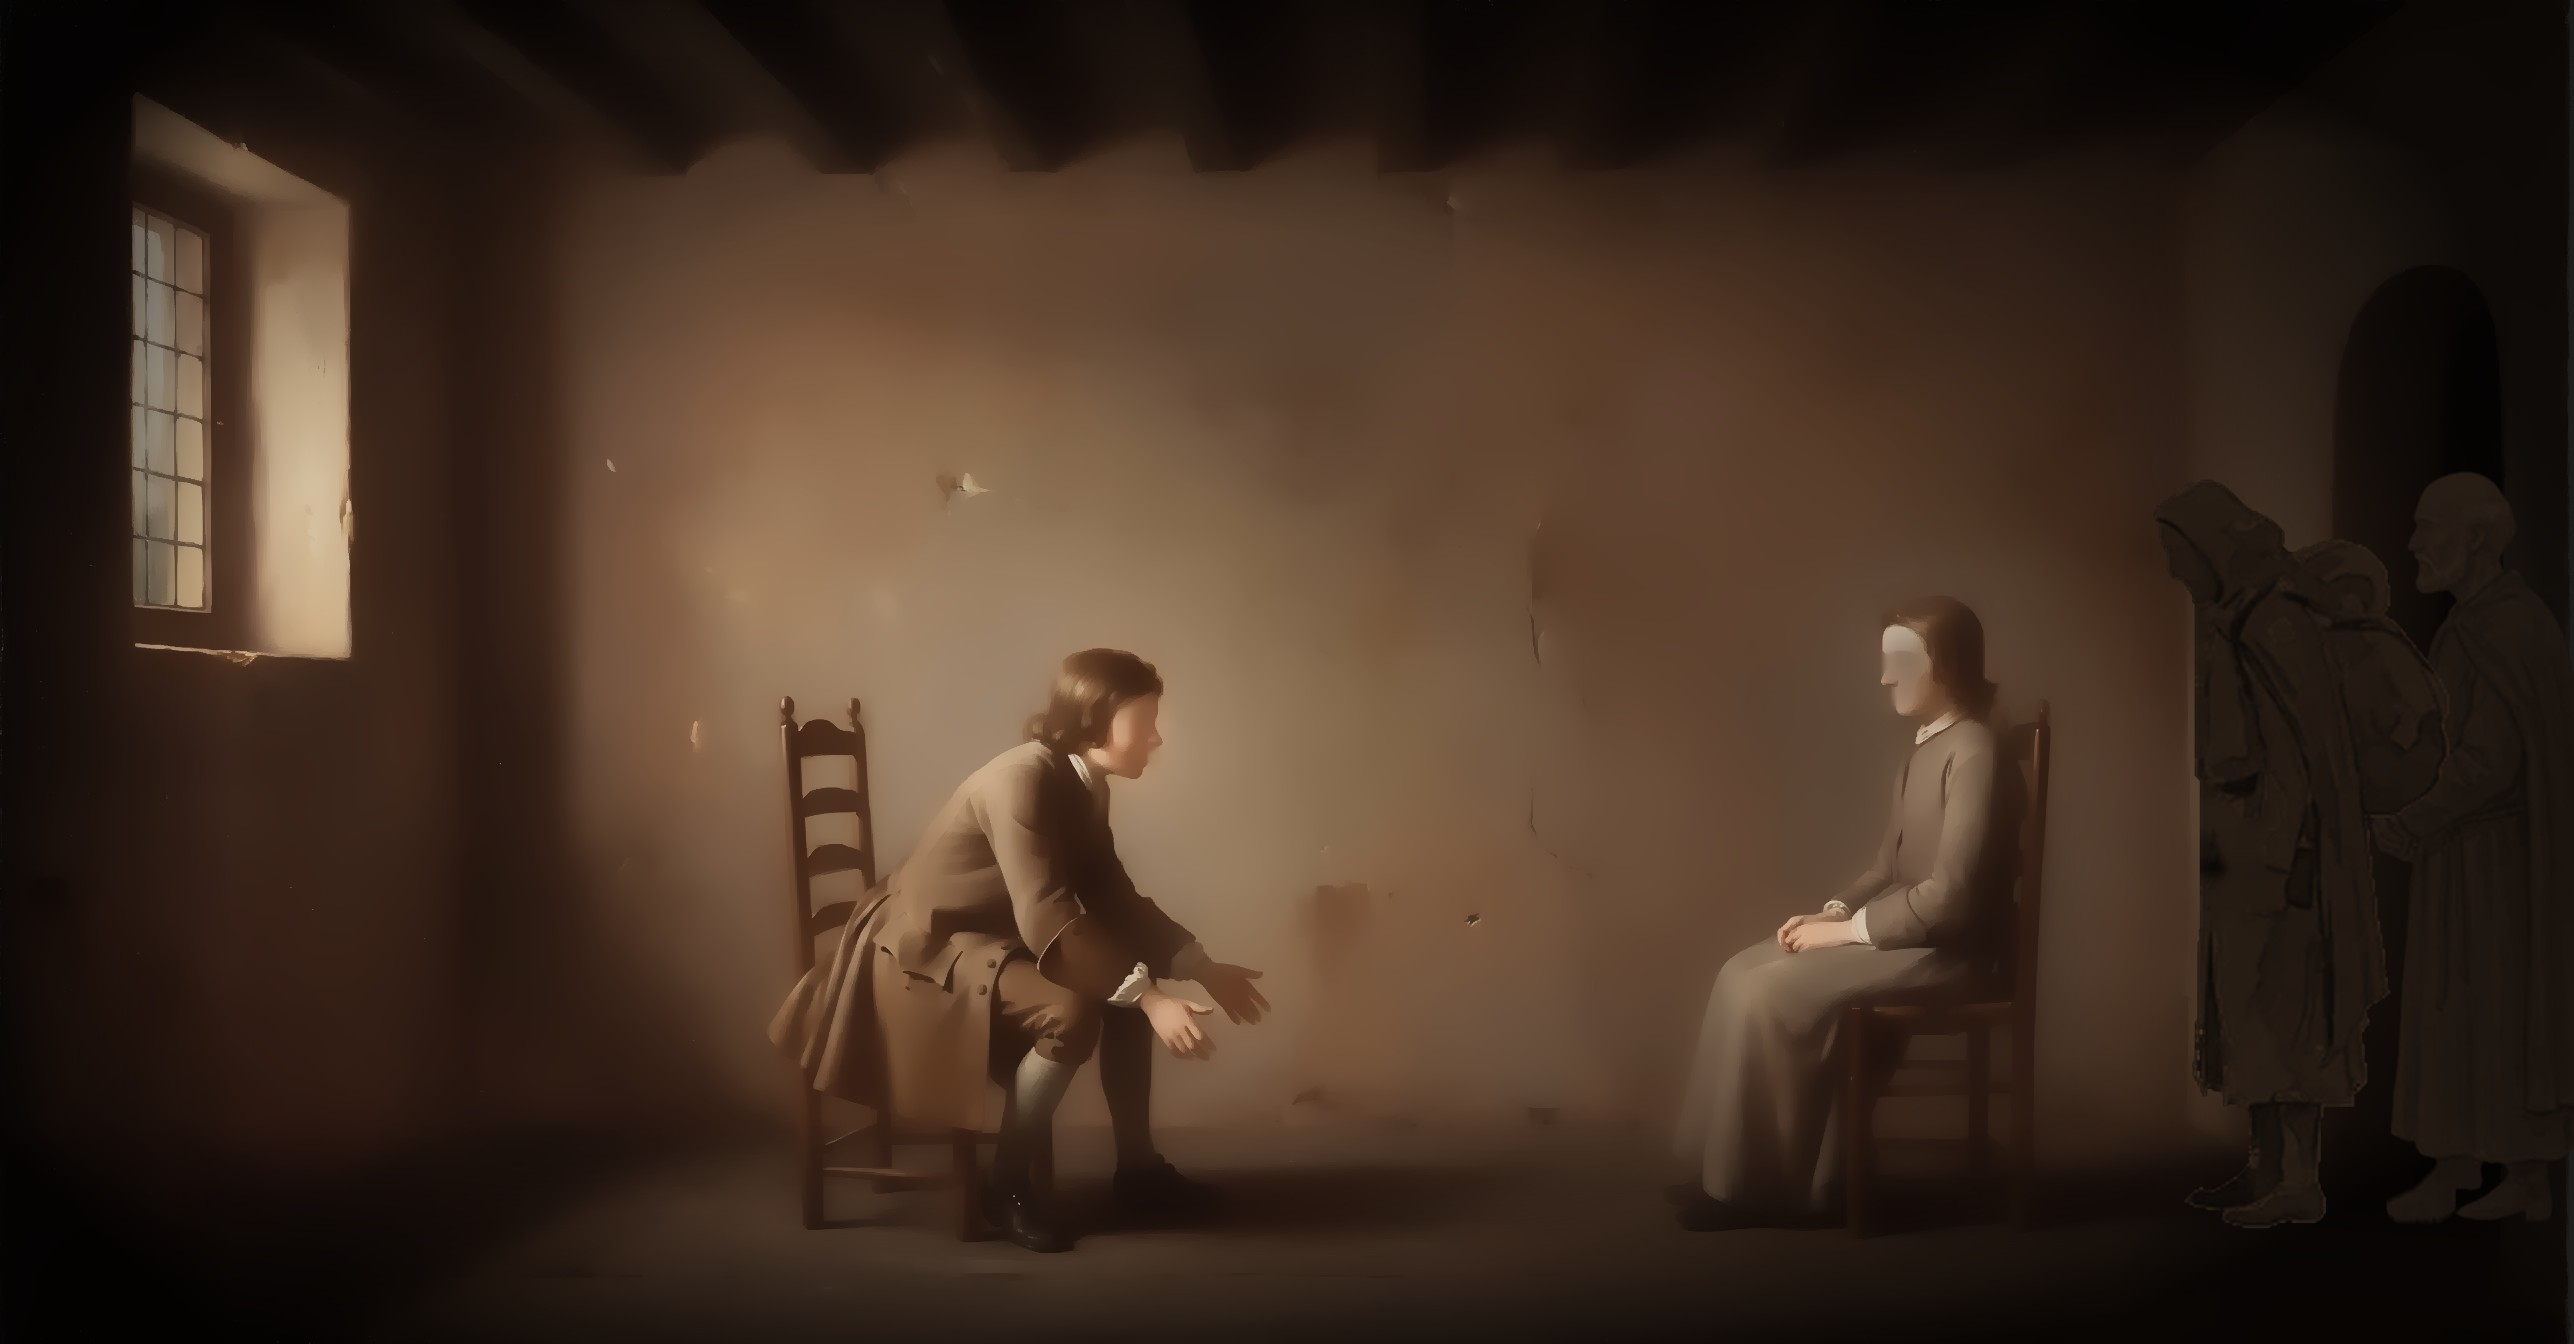
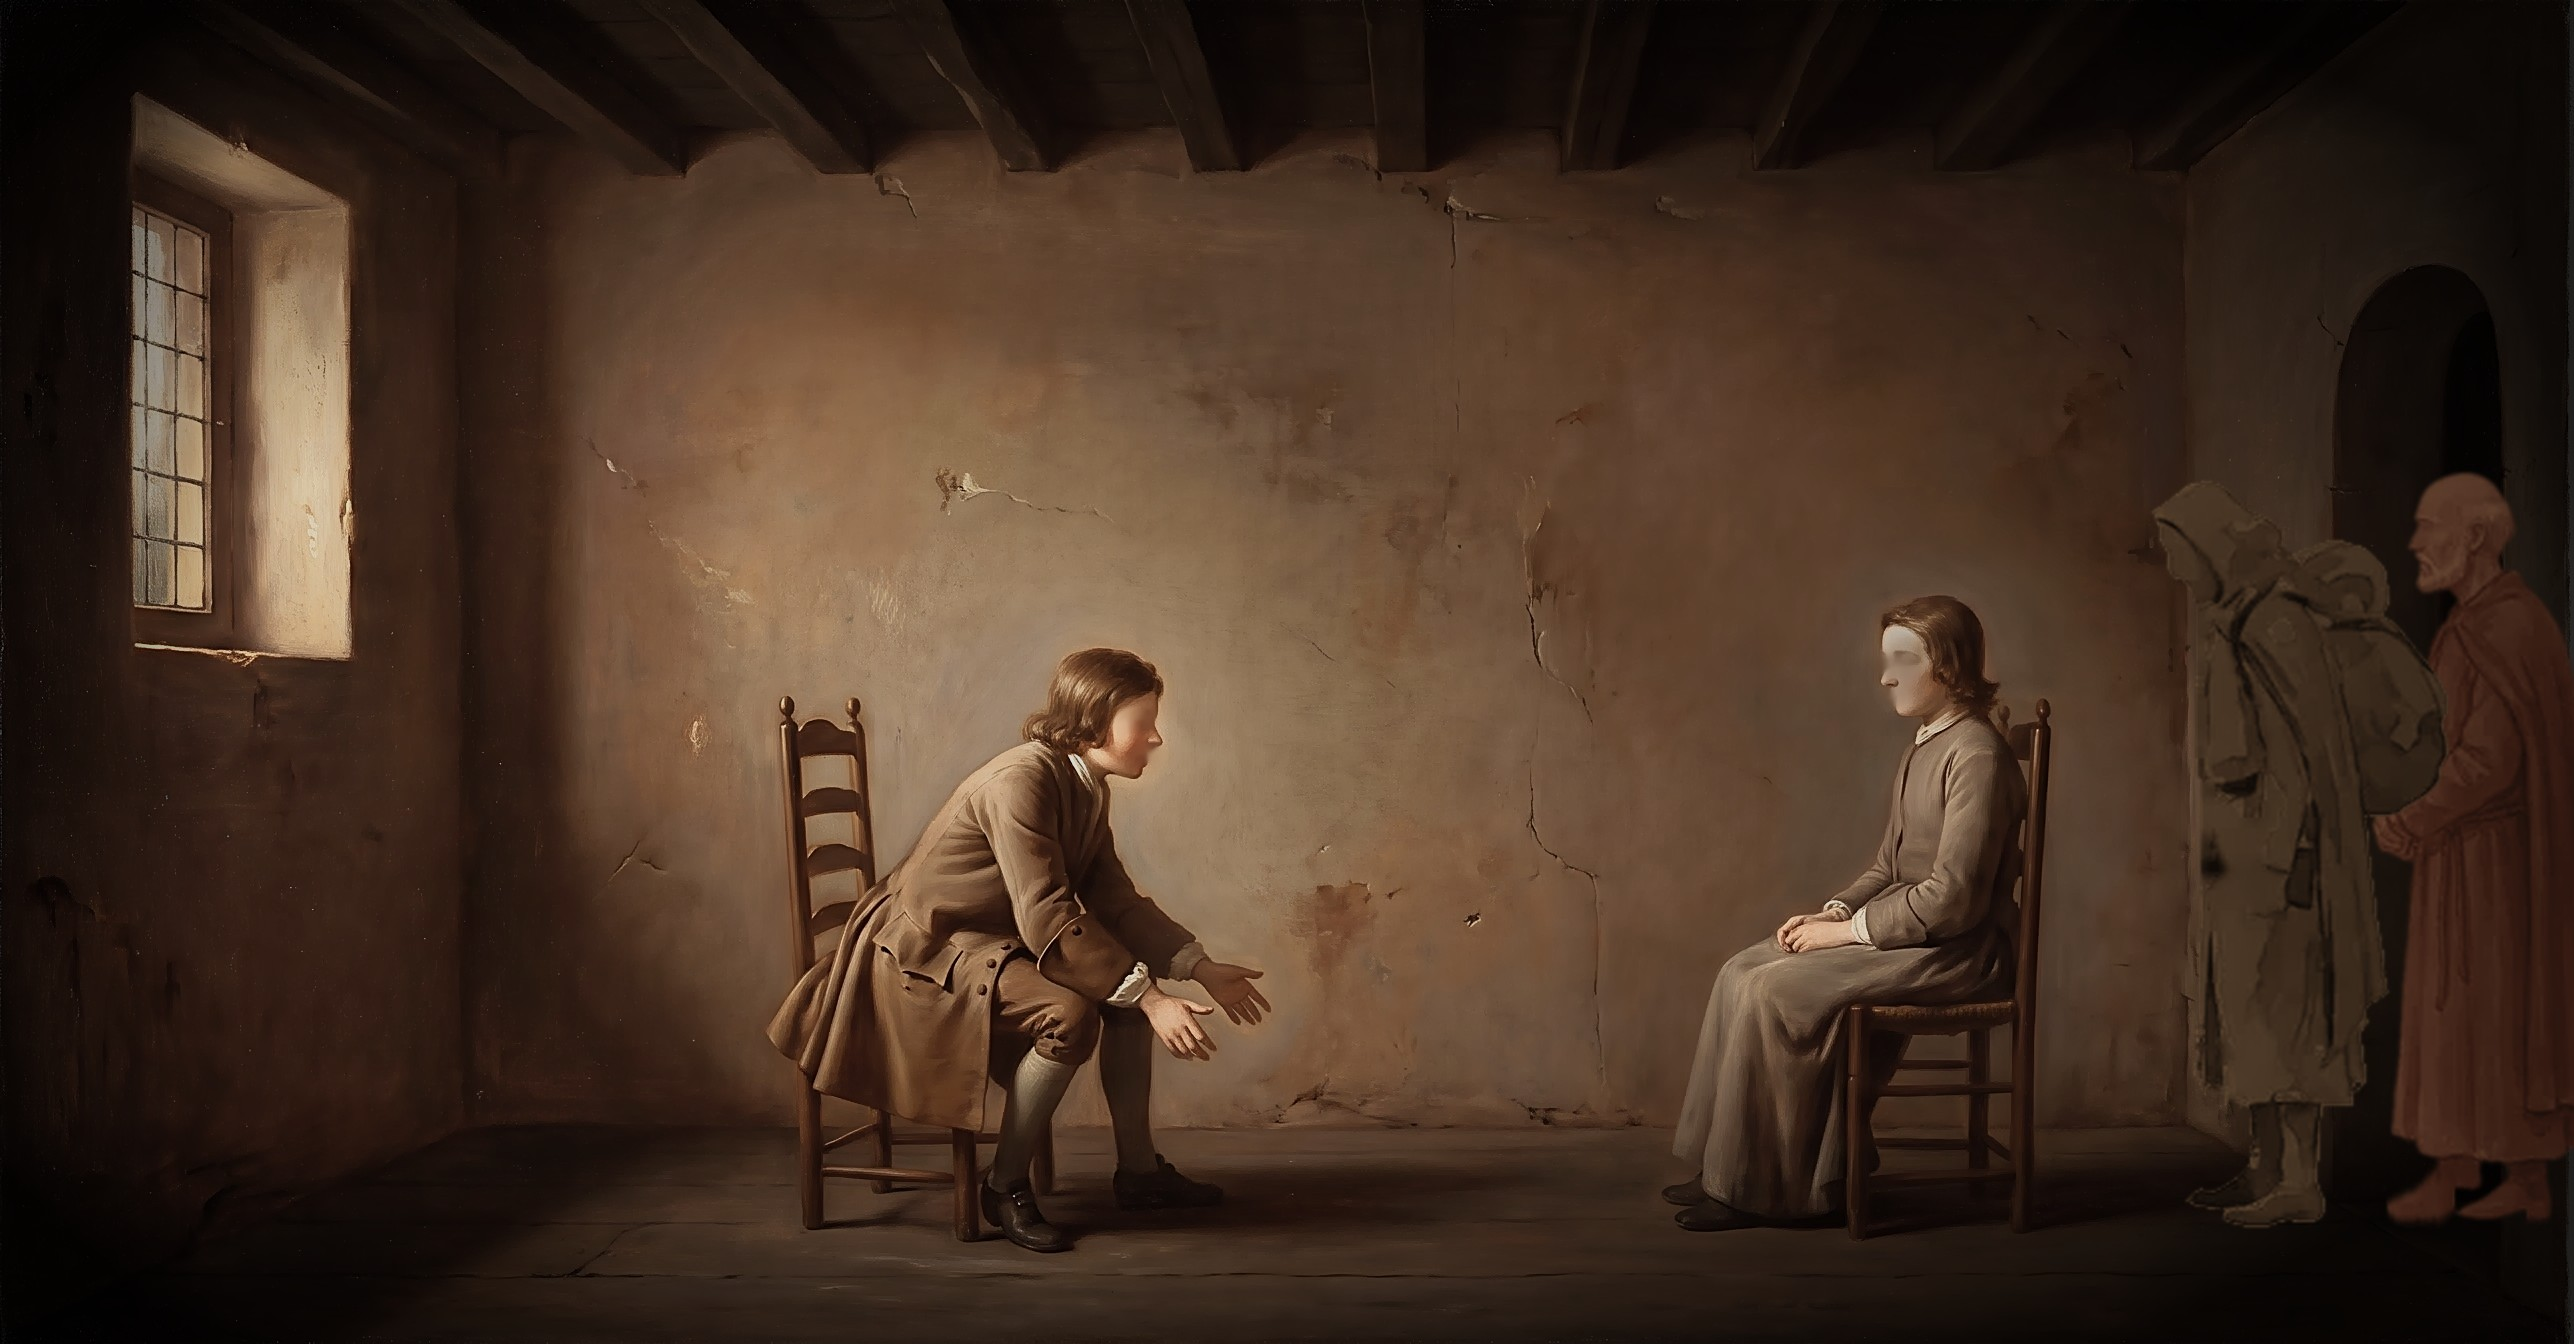
Level 4: room 3 crisp instead of blurred, Christian and the Interpreter coloured like the room's people (concept only)
Claude-Session: https://claude.ai/code/session_017HrTSHVVMcxEhGjUti4Zrs

diff --git a/CLAUDE.md b/CLAUDE.md
@@ -308,7 +308,7 @@ Owner: "is there a way to get pause and get menu that allows us to navigate away
 
 **BOOKMARK: THE STUNNING ROOM (owner, Nov 17: "I live the room so much I don't really want to do A ... try A but keep a big bookmark for coming back to this if it doesn't look amazing!").** `concept/level4-room2-plate.jpg` is the owner's favourite: Vermeer's light on the bare parlour, made by `gemini-3-pro-image` (21:9, 2K) from our layout and the Milkmaid. KEEP IT and come back to it before settling the rooms' look. The prompt is in this chat's record ("Paint the room again as a finished oil painting truly by Vermeer ... WIDER (21:9) and with NO PEOPLE ... THE LIGHT IS EVERYTHING ..."). Plan A (free: soften the room toward brushwork, flatten its floor, colour Christian in its light) was tried: a strong pass (oil-paint filter) made it blotchy and cheap-looking; a gentle pass hardly changes the room, and Christian still reads as a paper cut-out. **The mismatch is Christian, not the room**: the next step is a painted Christian (or the room repainted a little quieter), not a duller room. **A painted Christian (owner: "Yes let's go"; about 13 cents, right first time):** `gemini-3-pro-image` given his book-free standing picture, a crop of the painted room and the Milkmaid, asked to paint the SAME figure (pose, outline, hood, burden, flat side view, feet level, plain face, light from the left, on white): `concept/christian-painted-stand.webp` (cut in COLOUR by distance from white, edge colours taken from inside so no pale rim: `tools/cutout.py` makes figures grey, which is wrong here), and him standing in the room (now in `concept/level4-room2-all.jpg`). He belongs in the room now. **Scale (owner: "basket and window look big compared to him"):** he is now drawn 780 of the plate's 1344 rows tall (58%), the basket about a third of his height. His face is a pale blank inside the hood: the rule for Christian is a soft profile, "neither black nor blank" (fix by hand or in the next picture). If kept, his walk in this manner needs one video (about 56 cents) and serves every painted room. **The owner: "I like him - let's do cheapest next steps".** The room's people on one sheet (`gemini-3-pro-image`, 16:9, 2K, about 13 cents, right first time), given the painted Christian as the style, the room, the Milkmaid, and the old grey pictures of his wife, Help and Good-will as pose guides: the Interpreter (grey beard, dark skull-cap, Rembrandt red-brown gown, hands folded, facing right), the damsel (dressed as the Milkmaid, pouring from a red-brown jug, facing right), the man who swept (olive jerkin, broom, facing left). Cut in colour (`concept/room2-interpreter-painted.webp`, `-damsel-`, `-sweeper-`); the model drew eyes and mouths on the two men. **FACES IN THE PAINTED ROOMS (owner, Nov 17: "We can probably unplain faces"):** in Level 4's painted rooms people may have painted faces as the masters painted them; the two men's faces are kept as painted (a plain wash was tried first and taken out). The damsel's face and the painted Christian's came out blank from the model; giving them faces needs a new picture. The plain-face rule still holds for the watercolour levels (1 to 3) unless the owner says otherwise. All four standing in the room: `concept/level4-room2-all.jpg` (the Interpreter at the window, Christian by the basket, the damsel sprinkling in the light, the sweeper in the dust). Still to come: his painted walk (one video, about 56 cents), and the damsel's sprinkling and the sweeper's sweeping as small moves in code.
 
-**TWO CHATS ON LEVEL 4, ROOM BY ROOM (owner, Nov 17: "let's just work on diff rooms").** The Level 4 chat has room 2 (the parlour); the chat once called "Level 2 mud rework", now "Level 4 build", has room 3 (Passion and Patience) and goes on from there. Say here which room you take before starting it. **Room 3 sketched as a still** (`concept/level4-room3-passion-patience.png`, drawn in code, nothing spent): after Chardin's *Soap Bubbles*: calm umber plaster under a dark beamed ceiling, ONE small deep-set leaded window high on the left giving a soft glow and a soft breath of light across the room (no hard shapes); Passion in his ladder-back chair in the light, leaning to the gold poured at his feet, the gold rising away as bubbles, one large luminous bubble the focus (the homage); Patience upright and quiet in his chair in the half-shade, facing him; Christian and the Interpreter dark in an arched doorway on the right; the line "So are the men of this world ..." on the floor. Stand-ins: the boys are code silhouettes (they would need their own picture, about 15 cents, only on a yes), the Interpreter is Good-will's picture. **Room 3 painted (owner: "paint using style from inspiration painting ... make boys ... at same time to save $$" and "Let's go with your ideas"; one `gemini-3-pro-image` picture, 21:9 at 2K, about 13 cents, right first time):** given the Chardin (cropped from the mood board), the painted parlour (`level4-room2-plate.jpg`, so it is the same house) and the code sketch as layout; the boys painted INTO the room (they sit still), plus a second Passion in rags on a white strip at the right in the same call. Cut into `concept/level4-room3-plate.jpg` (the room: warm umber plaster, a dark beamed ceiling, one small leaded window high on the left, Passion leaning forward in his chair in the light, hands reaching to the empty floor where the gold will pour, Patience upright and quiet in the half-shade, an empty arched doorway on the right for Christian and the Interpreter's painted figures from room 2) and `concept/room3-passion-rags-painted.webp` (cut in colour: paper by lightness and low colour, every paper patch over 250 px cleared, so the gaps between the chair's slats are see-through). The plan in code: the bag, the gold pouring, the bubbles rising, the gold gone; then the ragged Passion dissolves in over the fine one. **As in room 2, the room goes back in depth** (side walls and a deep floor); the owner liked that in room 2, so it is kept. Patience's long plain coat reads a little like a gown. **REELING THE PAINTED ROOMS IN (owner: "I fear these painting rooms are diverging from style of game ... face in particular look too different"; "let's try it (please save old since I still like a lot)").** Tried free on room 3, kept beside the original (`level4-room3-plate.jpg` untouched): `concept/level4-room3-game.jpg`: (1) the boys' faces a plain wash with the profile kept (eye, brow and mouth painted out by OpenCV inpainting and a soft blur only there), Patience's pale face held down; (2) the room quieter: fine texture and cracks smoothed away (two edge-preserving passes), colour .78, highlights held down, the side walls, the deep floor and the ceiling sunk in shadow, a strong dark round the edges; (3) Christian's and Good-will's own watercolour figures (stand-ins for the Interpreter) in the doorway, multiplied to the room's dark umber. Proposed rule if the owner likes it: people in Level 4 are the game's watercolour figures with plain-wash faces (taking back the painted-faces exception above); each room keeps its painting's light, colours and one detail, quietened toward the game's layers.
+**TWO CHATS ON LEVEL 4, ROOM BY ROOM (owner, Nov 17: "let's just work on diff rooms").** The Level 4 chat has room 2 (the parlour); the chat once called "Level 2 mud rework", now "Level 4 build", has room 3 (Passion and Patience) and goes on from there. Say here which room you take before starting it. **Room 3 sketched as a still** (`concept/level4-room3-passion-patience.png`, drawn in code, nothing spent): after Chardin's *Soap Bubbles*: calm umber plaster under a dark beamed ceiling, ONE small deep-set leaded window high on the left giving a soft glow and a soft breath of light across the room (no hard shapes); Passion in his ladder-back chair in the light, leaning to the gold poured at his feet, the gold rising away as bubbles, one large luminous bubble the focus (the homage); Patience upright and quiet in his chair in the half-shade, facing him; Christian and the Interpreter dark in an arched doorway on the right; the line "So are the men of this world ..." on the floor. Stand-ins: the boys are code silhouettes (they would need their own picture, about 15 cents, only on a yes), the Interpreter is Good-will's picture. **Room 3 painted (owner: "paint using style from inspiration painting ... make boys ... at same time to save $$" and "Let's go with your ideas"; one `gemini-3-pro-image` picture, 21:9 at 2K, about 13 cents, right first time):** given the Chardin (cropped from the mood board), the painted parlour (`level4-room2-plate.jpg`, so it is the same house) and the code sketch as layout; the boys painted INTO the room (they sit still), plus a second Passion in rags on a white strip at the right in the same call. Cut into `concept/level4-room3-plate.jpg` (the room: warm umber plaster, a dark beamed ceiling, one small leaded window high on the left, Passion leaning forward in his chair in the light, hands reaching to the empty floor where the gold will pour, Patience upright and quiet in the half-shade, an empty arched doorway on the right for Christian and the Interpreter's painted figures from room 2) and `concept/room3-passion-rags-painted.webp` (cut in colour: paper by lightness and low colour, every paper patch over 250 px cleared, so the gaps between the chair's slats are see-through). The plan in code: the bag, the gold pouring, the bubbles rising, the gold gone; then the ragged Passion dissolves in over the fine one. **As in room 2, the room goes back in depth** (side walls and a deep floor); the owner liked that in room 2, so it is kept. Patience's long plain coat reads a little like a gown. **REELING THE PAINTED ROOMS IN (owner: "I fear these painting rooms are diverging from style of game ... face in particular look too different"; "let's try it (please save old since I still like a lot)").** Tried free on room 3, kept beside the original (`level4-room3-plate.jpg` untouched): `concept/level4-room3-game.jpg`: (1) the boys' faces a plain wash with the profile kept (eye, brow and mouth painted out by OpenCV inpainting and a soft blur only there), Patience's pale face held down; (2) the room quieter: fine texture and cracks smoothed away (two edge-preserving passes), colour .78, highlights held down, the side walls, the deep floor and the ceiling sunk in shadow, a strong dark round the edges; (3) Christian's and Good-will's own watercolour figures (stand-ins for the Interpreter) in the doorway, multiplied to the room's dark umber. **Second pass (owner: "The bottom one is better ... the blurriness is a bit distracting ... less detailed [is fine] but out of focus look is somewhat distracting ... color Christian and interpreter slightly like room occupants"):** the smoothing is now small-scale only (one edge-preserving pass, `sigma_s` 14, then the edges sharpened back), so the room is crisp and simply less busy; the two men are coloured like the room's people: each watercolour figure's tones mapped (with more contrast) onto a ramp of the room's colours, Christian in the boys' umber-ochre, the Interpreter in a deeper Rembrandt red-brown, lit a little more on the window's side, edges softened by one pixel (no pale rim). Proposed rule if the owner likes it: people in Level 4 are the game's watercolour figures with plain-wash faces (taking back the painted-faces exception above); each room keeps its painting's light, colours and one detail, quietened toward the game's layers.
 
 **Nothing is built.** The other chat designs the picture first; then a file `gate.js` (object like `SL`/`HL`), a title button 4, `go4()`, Level 3's end card "Go on".
 
